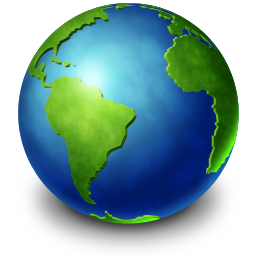
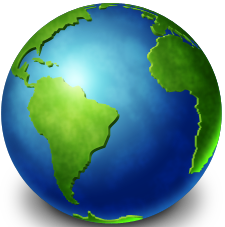
change earth api pic

diff --git a/src/components/Work.jsx b/src/components/Work.jsx
@@ -1,7 +1,7 @@
 import React from 'react';
 import WorkImg from '../assets/workImg.jpeg';
 import realEstate from '../assets/realestate.jpg';
-import Worldpng from '../assets/earth_PNG.png';
+import Worldpng from '../assets/earth.jpeg';
 import RealEstatePage from '../assets/realestatepage.jpg';
 import ComingSoon from '../assets/comingsoon.jpg';
 
@@ -15,6 +15,25 @@ const Work = () => {
             </div>
             {/* Container */}
             <div className='grid sm:grid-cols-2 md:grid-cols-3 gap-4'>
+
+                {/* Grid Item */}
+                <div style={{backgroundImage: `url(${realEstate})`}} className='shadow-lg shadow-[#040c16] group container rounded-md flex justify-center items-center mx-auto content-div'>
+
+                    {/* Hover Effects */}
+                    <div className='opacity-0 group-hover:opacity-100'>
+                        <span className='text-2xl font-bold text-white tracking-wider'>
+                            Real Estate API Website
+                        </span>
+                        <div className='pt-8 text-center'>
+                            <a href="https://real-estate-web-app-chi.vercel.app/">
+                                <button className='text-center rounded-lg px-4 py-3 m-2 bg-white text-gray-700 font-bold text-lg'>Demo</button>
+                            </a>
+                            <a href="https://github.com/simonmedici/real-estate-web-app">
+                                <button className='text-center rounded-lg px-4 py-3 m-2 bg-white text-gray-700 font-bold text-lg'>Code</button>
+                            </a>
+                        </div>
+                    </div>
+                </div>
 
                 {/* Grid Item */}
                 <div style={{backgroundImage: `url(${Worldpng})`}} className='shadow-lg shadow-[#040c16] group container rounded-md flex justify-center items-center mx-auto content-div'>
@@ -34,23 +53,7 @@ const Work = () => {
                         </div>
                     </div>
                 </div>
-                <div style={{backgroundImage: `url(${realEstate})`}} className='shadow-lg shadow-[#040c16] group container rounded-md flex justify-center items-center mx-auto content-div'>
 
-                    {/* Hover Effects */}
-                    <div className='opacity-0 group-hover:opacity-100'>
-                        <span className='text-2xl font-bold text-white tracking-wider'>
-                            Real Estate API Website
-                        </span>
-                        <div className='pt-8 text-center'>
-                            <a href="https://real-estate-web-app-chi.vercel.app/">
-                                <button className='text-center rounded-lg px-4 py-3 m-2 bg-white text-gray-700 font-bold text-lg'>Demo</button>
-                            </a>
-                            <a href="https://github.com/simonmedici/real-estate-web-app">
-                                <button className='text-center rounded-lg px-4 py-3 m-2 bg-white text-gray-700 font-bold text-lg'>Code</button>
-                            </a>
-                        </div>
-                    </div>
-                </div>
                 {/* Grid Item */}
                 <div style={{backgroundImage: `url(${RealEstatePage})`}} className='shadow-lg shadow-[#040c16] group container rounded-md flex justify-center items-center mx-auto content-div'>
 
